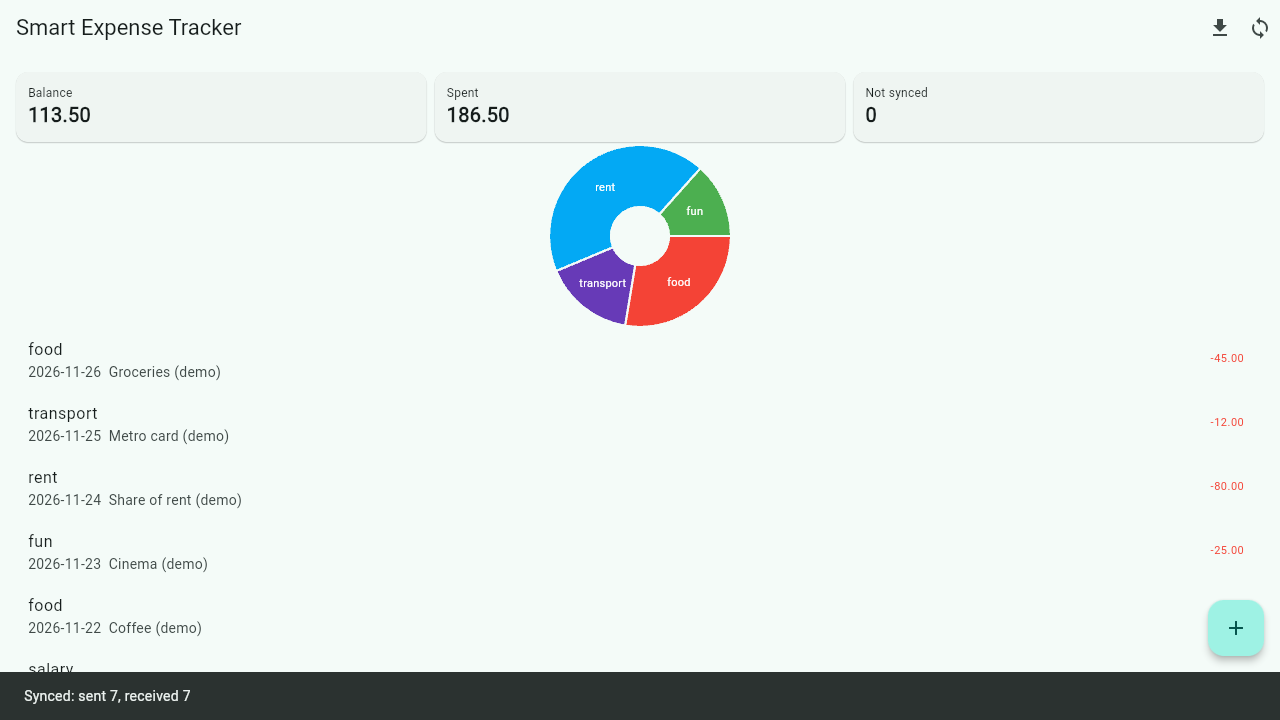
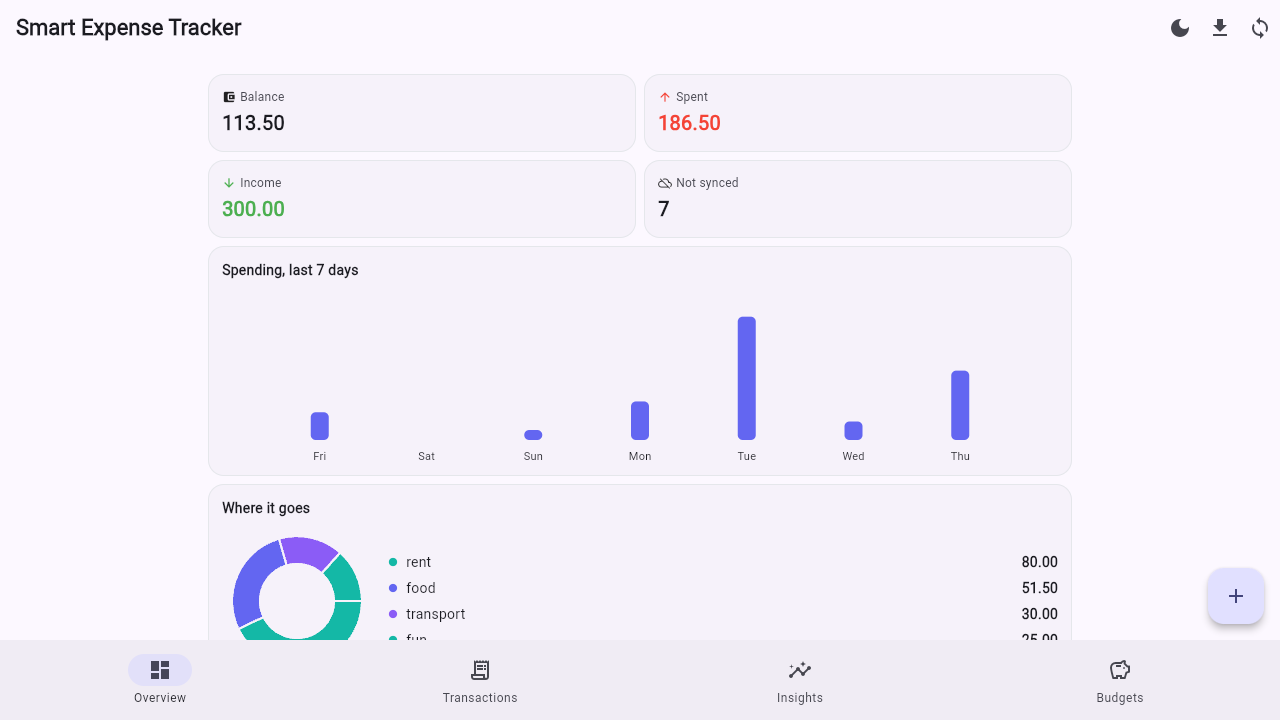
docs: update README and screenshots for the v3 UI

diff --git a/README.md b/README.md
@@ -5,7 +5,10 @@ Offline-first expense tracker: add income and expenses with no connection, see t
 **Live web demo:** https://expense-web-three.vercel.app (sync API: https://expense-api-gamma.vercel.app/docs)
 Press "Try demo" to load synthetic entries (every note says "demo"). Press the sync icon to send them to the server. Each browser gets its own random user id.
 
-![Web demo](docs/web-demo.png)
+![Web demo, overview](docs/web-demo.png)
+![Insights](docs/web-insights.png)
+
+Four tabs: Overview (7-day chart, category donut), Transactions (search, filters, edit, swipe to delete with undo), Insights (monthly stats), Budgets (per-category monthly limits stored on the device). Dark mode toggle. The web build is deployed from `flutter build web --release --dart-define=API_URL=...`.
 
 ## Stack
 Flutter 3.50 / Dart, BLoC (`flutter_bloc`), SQLite (`sqflite`; WebAssembly SQLite on the web build), `fl_chart`, FastAPI + PostgreSQL sync server.
